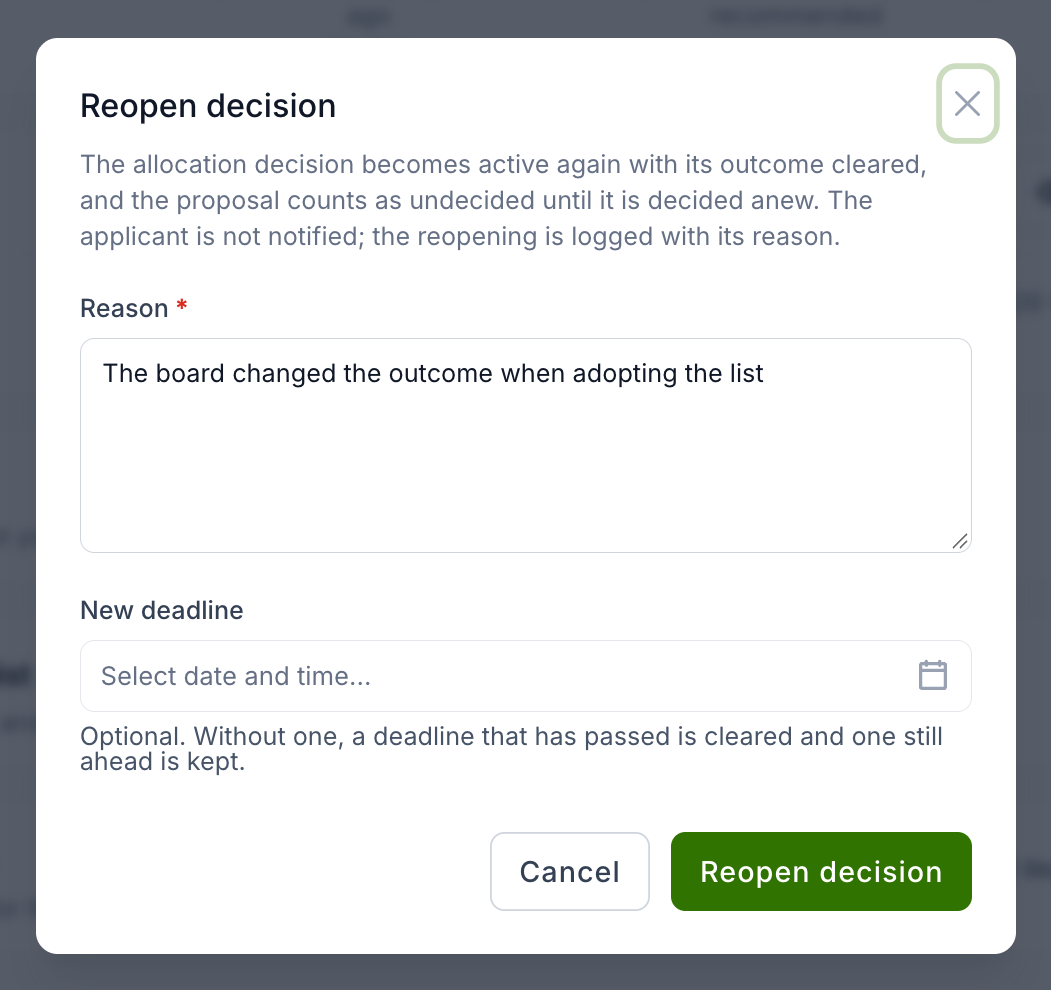
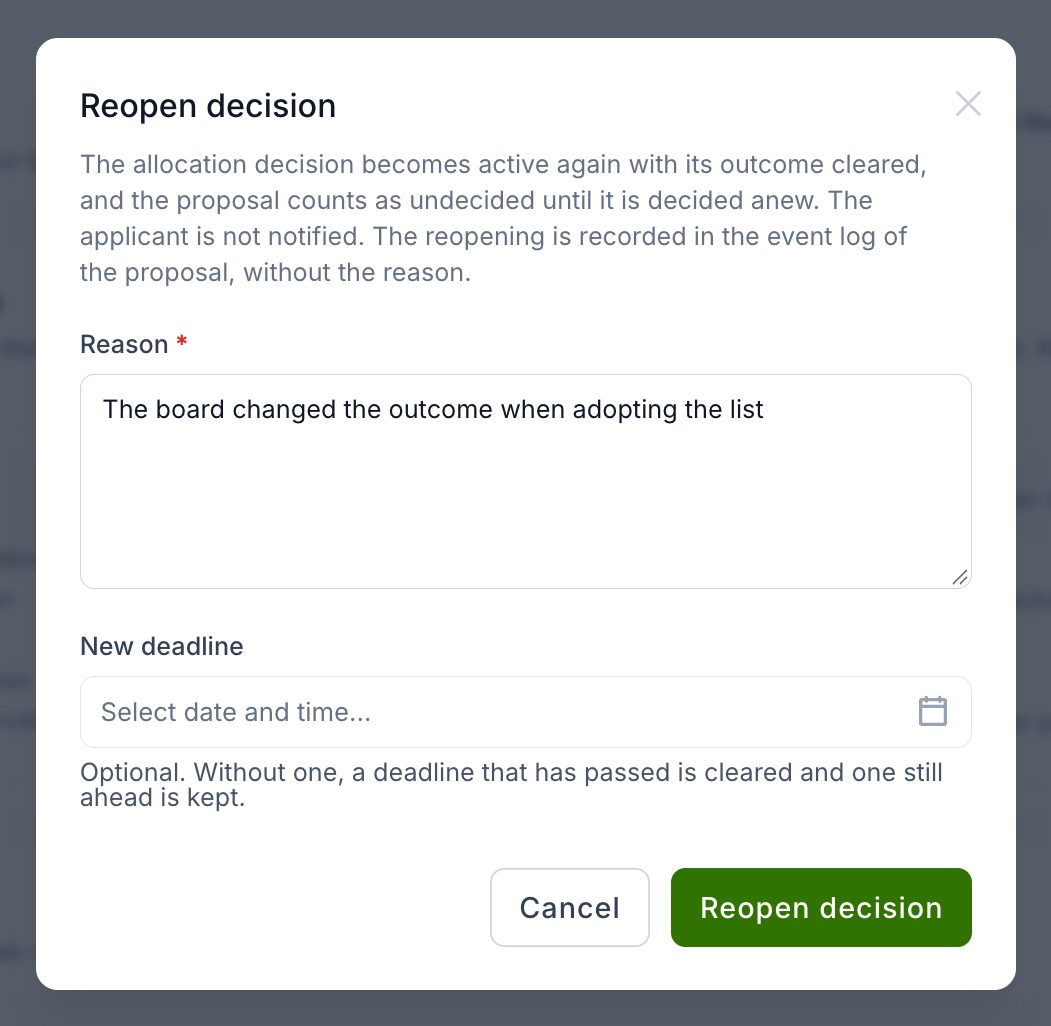
Name the applicant's hidden current step by its stage and refresh the held-decision screenshots

diff --git a/docs/user-guide/call-managing-organization/workflow-configuration.md b/docs/user-guide/call-managing-organization/workflow-configuration.md
@@ -146,7 +146,7 @@ Deadlines are enforced automatically. An hourly job checks active steps against 
 
 Applicants see a timeline on the proposal page showing its progress, starting from submission. Only steps marked **Applicant visible** are named there — the setting is off by default, so a call that has not turned it on for any step shows the applicant the coarse Submission → Review → Decision tracker instead of the evaluation steps.
 
-While an invisible step is the current one, it appears as an unnamed **In review** marker so the tracker still shows where the proposal has got to; once it has passed, it leaves no trace. Steps that were not reached because of an earlier rejection are struck through and marked **Not reached**. The timeline appears once the proposal leaves draft state; calls without a configured workflow fall back to the coarse tracker as well.
+While an invisible step is the current one, it appears under the name of its stage rather than its own — **Decision** for the allocation decision, **Awaiting your response** for the award response, **Evaluation** for any other step — so the tracker still shows where the proposal has got to; once it has passed, it leaves no trace. Steps that were not reached because of an earlier rejection are struck through and marked **Not reached**. The timeline appears once the proposal leaves draft state; calls without a configured workflow fall back to the coarse tracker as well.
 
 A short line under the tracker says what is happening — the expected decision date where the step has a deadline, or that the applicant's own confirmation is needed on an award response.
 

diff --git a/docs/user-guide/call-managing-organization/call-manager-workflow.md b/docs/user-guide/call-managing-organization/call-manager-workflow.md
@@ -130,7 +130,9 @@ Key settings:
   block them from opening or drafting it (see
   [Conflict of interest](#conflict-of-interest)).
 - **Applicant visible** — applicants see this step by name on their progress tracker.
-  Off by default; an invisible step shows to them only as "In review" while it runs.
+  Off by default; while an invisible step runs, it shows to them only under the name
+  of its stage — *Decision* for the allocation decision, *Awaiting your response*
+  for the award response, *Evaluation* for any other step.
 
 ### Required vs advisory checklists
 
@@ -349,9 +351,10 @@ results*.
 
 ![Tentative outcomes in the call manager's proposals list](../img/cm-proposals-tentative-outcome.png)
 
-On the proposal, the stepper shows the held outcome on the allocation decision,
-the awarded resources are read-only, and the **Progress** panel offers
-**Reopen decision**.
+On the proposal's **Call manager** tab, the stepper shows the held outcome on
+the allocation decision, the awarded resources are read-only, and the
+**Progress** panel offers **Reopen decision**. The **Applicant** tab shows the
+proposal as the applicant sees it, with the decision still the current step.
 
 ![A held decision on the call manager's proposal view](../img/cm-held-decision-proposal.png)
 

diff --git a/docs/user-guide/call-managing-organization/applicant-guide.md b/docs/user-guide/call-managing-organization/applicant-guide.md
@@ -192,10 +192,11 @@ was reconfigured between their submissions.
 ### When you hear the decision
 
 Some calls announce every allocation decision of a round together. On such a
-call your proposal stays **In review**, with the allocation decision shown as in
-progress, until the call manager publishes the round's results — even if the
-decision has already been taken. Then every applicant of the round is notified
-at the same time, and the proposal moves on: to **Responding to an award**, to
+call your proposal stays **In review** until the call manager publishes the
+round's results, even if the decision has already been taken. The tracker shows
+the decision as the current step — named *Decision* when the call keeps the step
+internal — with *Your proposal is being reviewed.* beneath it. Then every
+applicant of the round is notified at the same time, and the proposal moves on: to **Responding to an award**, to
 **Accepted**, or to **Rejected**.
 
 ![A proposal in review while its round's results are not yet published](../img/applicant-held-decision-in-review.png)
